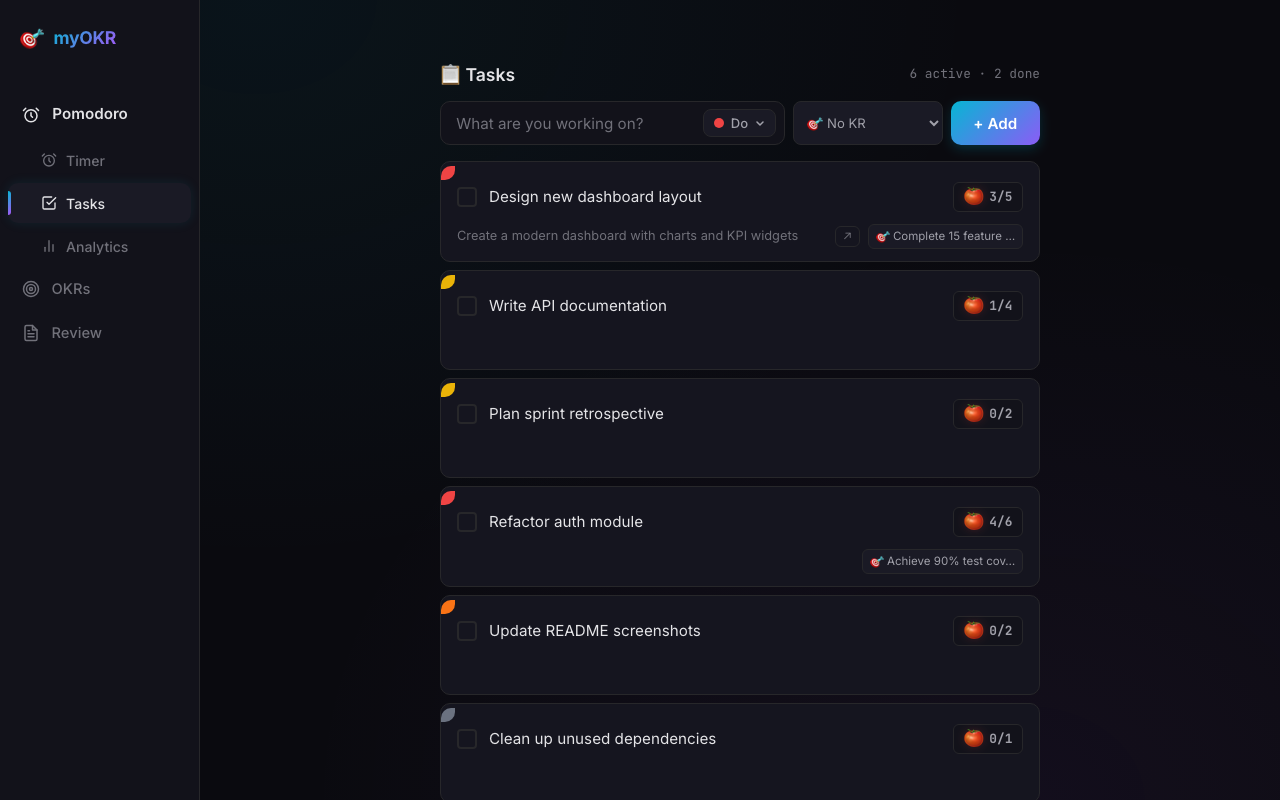
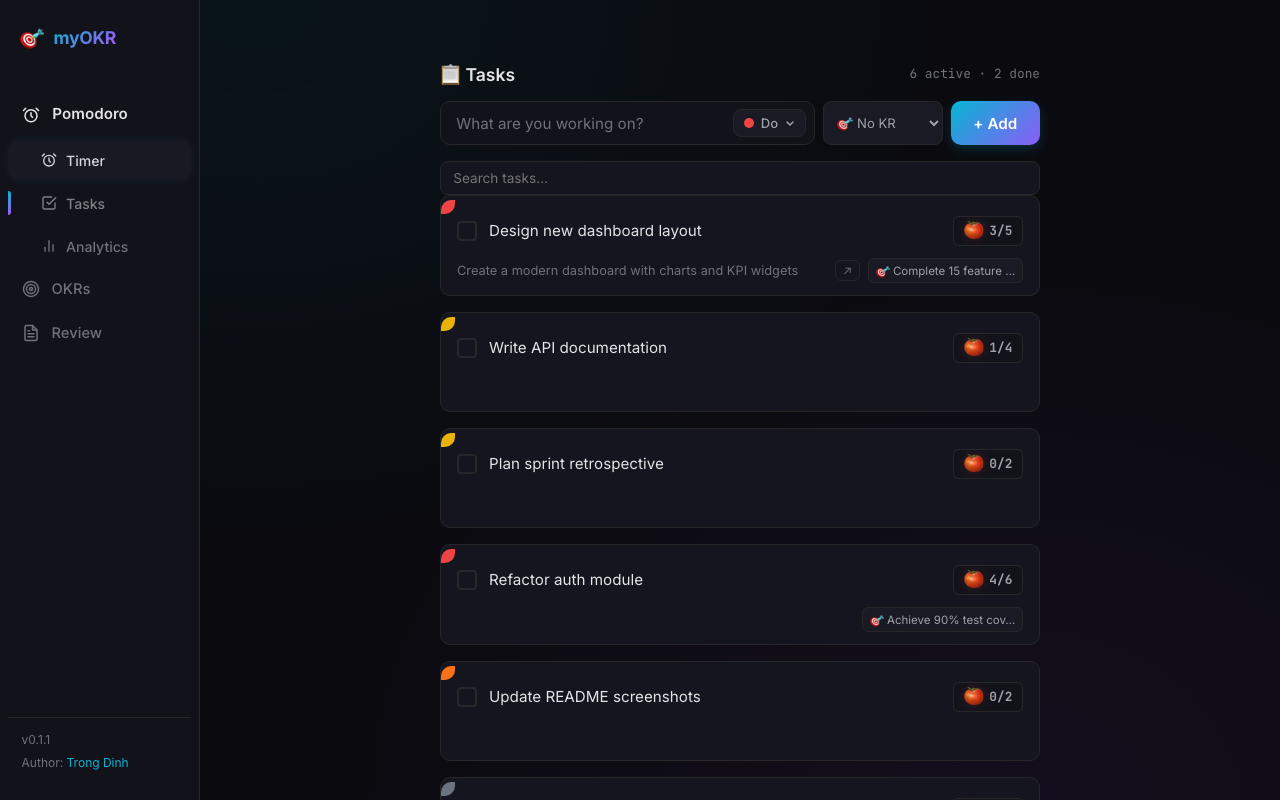
fix e2e test

diff --git a/src/components/pomodoro/TaskList.tsx b/src/components/pomodoro/TaskList.tsx
@@ -1,4 +1,4 @@
-import { useState, useRef } from 'react';
+import { useState, useRef, useMemo } from 'react';
 import type { PomodoroTask, EisenhowerCategory } from '../../lib/pomodoro-storage';
 import { generateId, EISENHOWER_META } from '../../lib/pomodoro-storage';
 import type { KeyResult } from '../../lib/okr-storage';
@@ -221,6 +221,17 @@ export default function TaskList({ tasks, activeTaskId, onTasksChange, onSetActi
   const [editTitle, setEditTitle] = useState('');
   const [detailTask, setDetailTask] = useState<PomodoroTask | null>(null);
   const [showCompleted, setShowCompleted] = useState(false);
+  const [searchQuery, setSearchQuery] = useState('');
+
+  const filteredTasks = useMemo(() => {
+    if (!searchQuery.trim()) return tasks;
+    const q = searchQuery.toLowerCase();
+    return tasks.filter(t =>
+      t.title.toLowerCase().includes(q) ||
+      (t.description && t.description.toLowerCase().includes(q)) ||
+      (t.todos && t.todos.some(todo => todo.text.toLowerCase().includes(q)))
+    );
+  }, [tasks, searchQuery]);
 
   const startEdit = (task: PomodoroTask) => {
     setEditingTaskId(task.id);
@@ -291,8 +302,8 @@ export default function TaskList({ tasks, activeTaskId, onTasksChange, onSetActi
     setDetailTask(updated);
   };
 
-  const activeTasks = tasks.filter(t => !t.isCompleted);
-  const completedTasks = tasks.filter(t => t.isCompleted);
+  const activeTasks = filteredTasks.filter(t => !t.isCompleted);
+  const completedTasks = filteredTasks.filter(t => t.isCompleted);
 
   return (
     <div className="task-section">
@@ -330,9 +341,26 @@ export default function TaskList({ tasks, activeTaskId, onTasksChange, onSetActi
         <button className="btn add-task-btn" onClick={addTask}>+ Add</button>
       </div>
 
+      {tasks.length > 0 && (
+        <div className="task-search-row">
+          <input
+            type="text"
+            placeholder="Search tasks…"
+            value={searchQuery}
+            onChange={e => setSearchQuery(e.target.value)}
+          />
+          {searchQuery && (
+            <button className="task-search-clear" onClick={() => setSearchQuery('')}>✕</button>
+          )}
+        </div>
+      )}
+
       <div className="task-list">
         {tasks.length === 0 && (
           <div className="task-empty">No tasks yet. Add one above to get started!</div>
+        )}
+        {tasks.length > 0 && filteredTasks.length === 0 && (
+          <div className="task-empty">No tasks match "{searchQuery}"</div>
         )}
         {activeTasks.map(task => (
           <div

diff --git a/tests/pomodoro-confirmations.spec.ts b/tests/pomodoro-confirmations.spec.ts
@@ -4,6 +4,7 @@ import { test, expect, type Page } from '@playwright/test';
 
 async function waitForApp(page: Page) {
   await page.goto('/');
+  await page.waitForLoadState('networkidle');
   await expect(page.locator('text=Loading...')).toHaveCount(0, { timeout: 10000 });
 }
 
@@ -129,7 +130,7 @@ test.describe('Pomodoro: Task changed auto-start confirmation', () => {
   });
 
   test('shows confirmation when task changed during break and previous not done', async ({ page }) => {
-    test.slow();
+    test.setTimeout(180000);
 
     // Setup: 1-min focus, 1-min break, enable auto-start
     await setDurations(page, 1, 1);
@@ -163,7 +164,7 @@ test.describe('Pomodoro: Task changed auto-start confirmation', () => {
   });
 
   test('does NOT show confirmation when previous task is completed', async ({ page }) => {
-    test.slow();
+    test.setTimeout(180000);
 
     await setDurations(page, 1, 1);
     await enableAutoStart(page);
@@ -199,7 +200,7 @@ test.describe('Pomodoro: Task changed auto-start confirmation', () => {
   });
 
   test('cancel on task changed confirmation stops auto-start', async ({ page }) => {
-    test.slow();
+    test.setTimeout(180000);
 
     await setDurations(page, 1, 1);
     await enableAutoStart(page);

diff --git a/src/styles/pomodoro.css b/src/styles/pomodoro.css
@@ -389,6 +389,43 @@
   color: var(--text-muted);
 }
 
+.task-search-row {
+  position: relative;
+  margin-top: 0.5em;
+}
+.task-search-row input {
+  width: 100%;
+  padding: 0.7em 2.4em 0.7em 1em;
+  background: var(--bg-primary);
+  border: none;
+  border-radius: 6px;
+  color: var(--text-primary);
+  font-size: 0.95rem;
+  outline: none;
+  box-sizing: border-box;
+  box-shadow: inset 0 1px 3px rgba(0, 0, 0, 0.15);
+}
+.task-search-row input::placeholder {
+  font-weight: 500;
+  opacity: 0.7;
+}
+.task-search-row input:focus {
+  box-shadow: inset 0 1px 3px rgba(0, 0, 0, 0.15), 0 0 0 2px var(--accent);
+}
+.task-search-clear {
+  position: absolute;
+  right: 0.4em;
+  top: 50%;
+  transform: translateY(-50%);
+  background: none;
+  border: none;
+  color: var(--text-muted);
+  cursor: pointer;
+  padding: 0.4em;
+  font-size: 1rem;
+  line-height: 1;
+}
+
 .task-list {
   display: flex;
   flex-direction: column;

diff --git a/tests/screenshots.spec.ts b/tests/screenshots.spec.ts
@@ -5,7 +5,7 @@ const SCREENSHOTS_DIR = 'screenshots';
 test.describe('App Screenshots', () => {
   test.beforeEach(async ({ page }) => {
     await page.goto('/');
-    // Wait for app to finish loading (Loading... text disappears)
+    await page.waitForLoadState('networkidle');
     await expect(page.locator('text=Loading...')).toHaveCount(0, { timeout: 10000 });
   });
 

diff --git a/tests/e2e-workflows.spec.ts b/tests/e2e-workflows.spec.ts
@@ -6,6 +6,7 @@ const MOBILE_VIEWPORT = { width: 375, height: 667 };
 
 async function waitForApp(page: Page) {
   await page.goto('/');
+  await page.waitForLoadState('networkidle');
   await expect(page.locator('text=Loading...')).toHaveCount(0, { timeout: 10000 });
 }
 

diff --git a/playwright.config.ts b/playwright.config.ts
@@ -2,6 +2,7 @@ import { defineConfig } from '@playwright/test';
 
 export default defineConfig({
   testDir: './tests',
+  retries: 1,
   use: {
     baseURL: 'http://localhost:5173',
     viewport: { width: 1280, height: 800 },

diff --git a/src/mocks/store.ts b/src/mocks/store.ts
@@ -71,6 +71,7 @@ const SEED_DATA: Record<string, any> = {
   ],
   history: generateHistory(),
   reviews: [],
+  walkthroughState: 'seen',
 };
 
 class MockStore {
